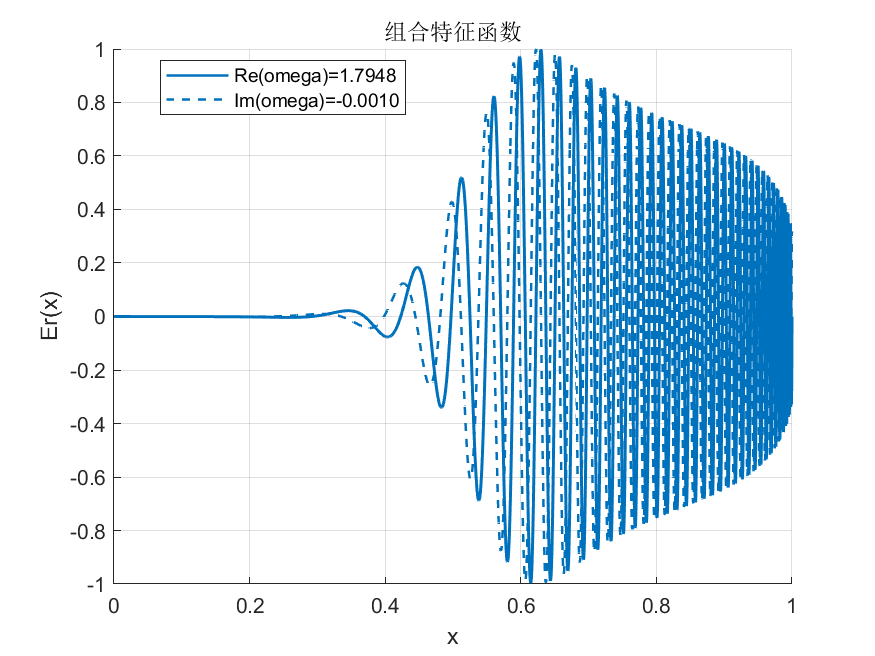
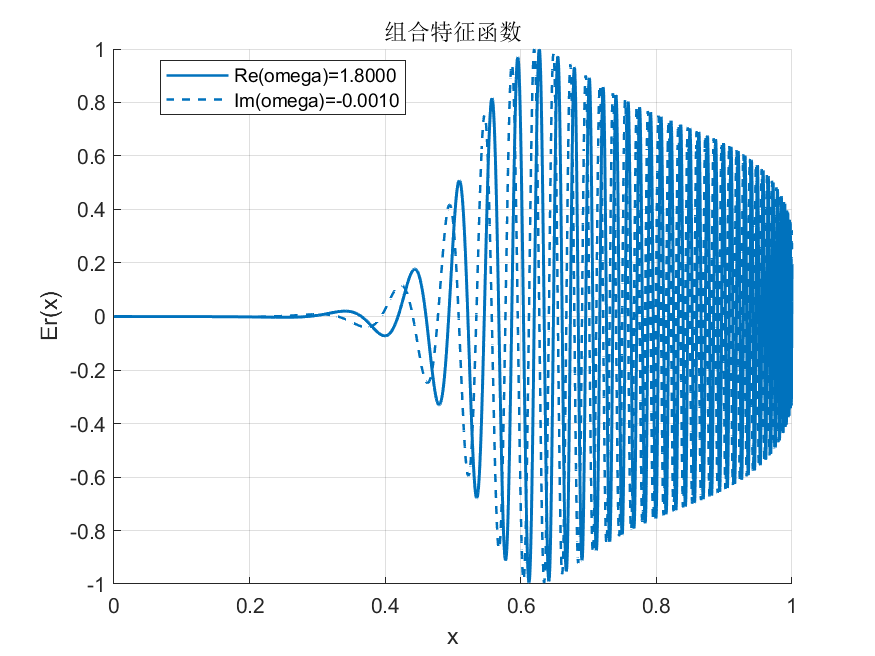
L2 范数的平方，阈值设置过小，未开始查找

Changed region(s): [[0.3394, 0.061, 0.8949, 0.8841], [0.4011, 0.0915, 0.4629, 0.122]]

diff --git a/matlab-solve/gao-ver/shootev_fsolve.m b/matlab-solve/gao-ver/shootev_fsolve.m
@@ -1,6 +1,6 @@
 function tt = shootev_fsolve()
     format long;
-    tol = 1.5e-4;
+    tol = 1.0e-13;
     m = 1;
     omg_log = zeros(1, m) + 1i * zeros(1, m);
 
@@ -67,7 +67,7 @@ function tt = shootev_fsolve()
         % 嵌套函数，用于计算 fsolve 的残差
         [~, Er] = ode15s(@(x, Er) evfun(x, Er, omega), [0, 1], [0, deri], options);
         residual = Er(end, 1);  % 残差是边界处的值
-        residual = [1000*real(residual); imag(residual)]; % 将实部和虚部分开以便 fsolve 使用
+        residual = real(residual)^2 + imag(residual)^2; % 将实部和虚部分开以便 fsolve 使用
     end
 
 
